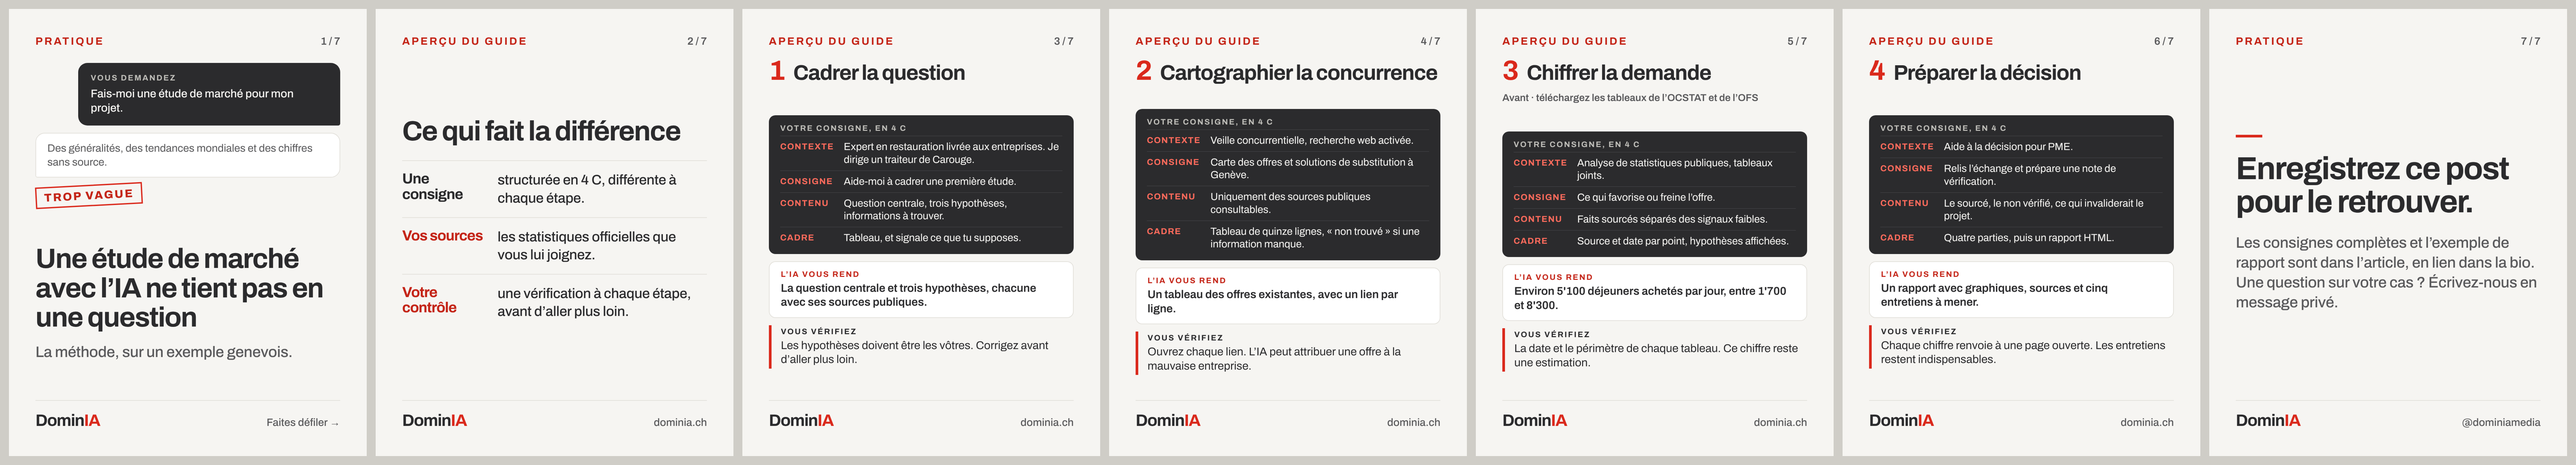
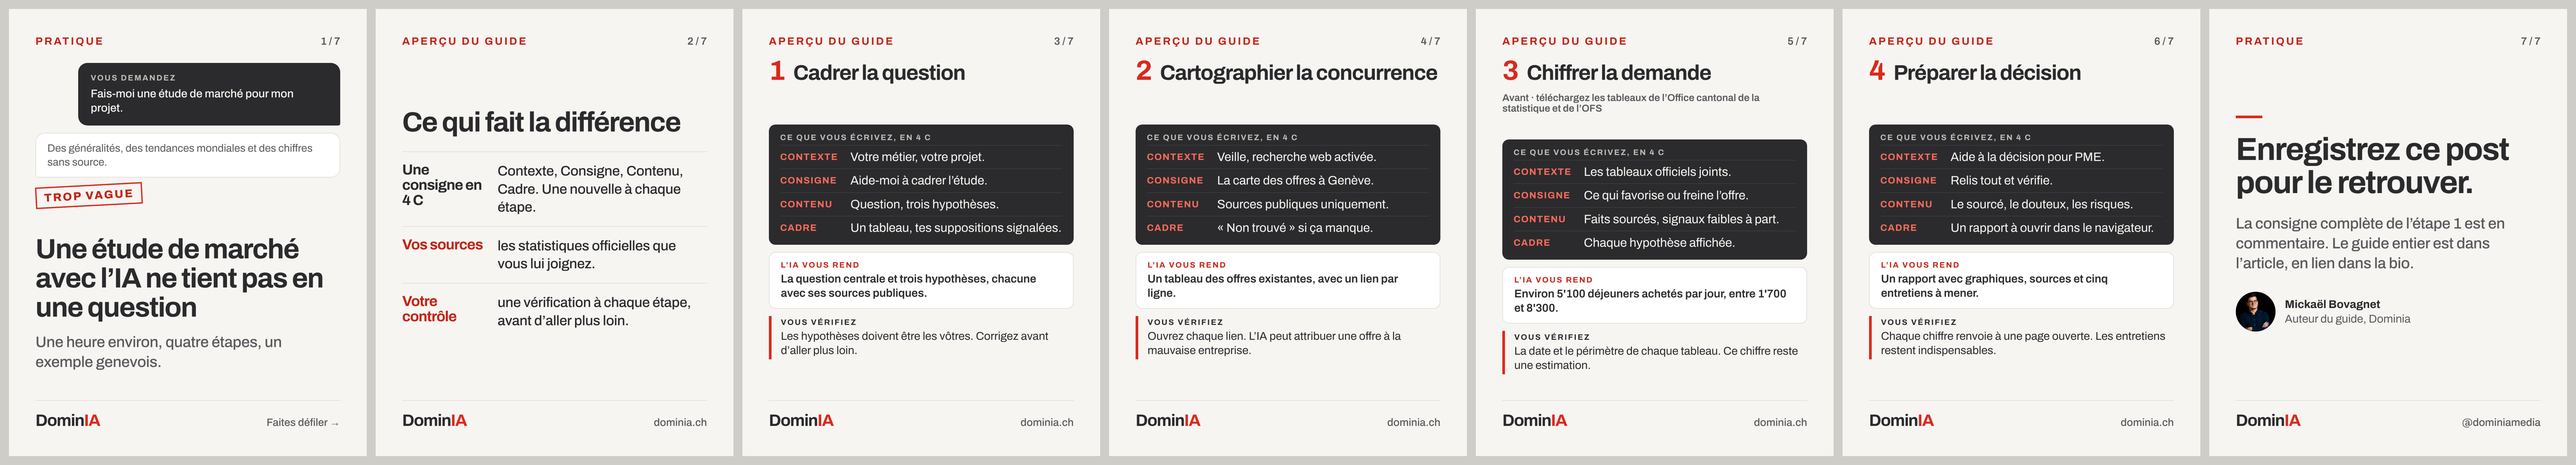
Carrousel étude de marché v6 : 4 C définis, cadre lisible, signature de l'auteur
Claude-Session: https://claude.ai/code/session_01QYrK9tD2HXR82baoKRbr2J

diff --git a/gabarits/generer.py b/gabarits/generer.py
@@ -113,6 +113,7 @@ def fin(v):
         <div class='accent' style='margin-bottom:44px'></div>
         <div class='titre' style='font-size:96px'>{e(v.get('titre','Enregistrez ce post pour le retrouver.'))}</div>
         <div class='texte' style='margin-top:44px'>{e(v.get('texte','Une question sur votre cas ? Écrivez-nous en message privé. L’article complet est en lien dans la bio.'))}</div>
+        {f"<div style='display:flex;align-items:center;gap:28px;margin-top:56px'><div style='width:120px;height:120px;border-radius:50%;background:url({img(v['photo'])}) center 20%/cover'></div><div style='font-size:34px;line-height:1.3'><div style='font-weight:700'>{e(v['auteur'])}</div><div style='color:{c['douce']}'>{e(v.get('fonction',''))}</div></div></div>" if v.get('auteur') else ""}
       </div>
       {pied(c, '@dominiamedia')}
     </div>"""
@@ -273,7 +274,7 @@ def etape_methode(v):
     Champs : rubrique, position, total, numero, titre, avant (facultatif), consigne [[label, texte]x4], rend, verifie"""
     c = CLAIR; w, h = 1080, 1350
     avant = f"<div style='font-size:30px;font-weight:600;margin-top:26px;color:{c['douce']}'>Avant · {e(v['avant'])}</div>" if v.get("avant") else ""
-    lignes = "".join(f"<div style='display:flex;gap:22px;padding:13px 0;border-top:1px solid #4A4A4E'><div style='width:170px;flex:none;font-size:26px;font-weight:700;letter-spacing:.08em;text-transform:uppercase;color:#FF6B5C;padding-top:4px'>{e(a)}</div><div style='font-size:31px;line-height:1.25'>{e(b)}</div></div>" for a, b in v["consigne"])
+    lignes = "".join(f"<div style='display:flex;gap:22px;padding:13px 0;border-top:1px solid #4A4A4E'><div style='width:190px;flex:none;font-size:28px;font-weight:700;letter-spacing:.08em;text-transform:uppercase;color:#FF6B5C;padding-top:6px'>{e(a)}</div><div style='font-size:37px;line-height:1.2'>{e(b)}</div></div>" for a, b in v["consigne"])
     corps = f"""<div class='cadre'>
       {tete(v, v['rubrique'], v.get('position'))}
       <div style='display:flex;align-items:baseline;gap:26px;margin-top:34px'>
@@ -283,7 +284,7 @@ def etape_methode(v):
       {avant}
       <div class='milieu' style='gap:22px'>
         <div style='background:#2B2B2D;color:#F6F5F2;border-radius:20px;padding:26px 34px 16px'>
-          <div style='font-size:24px;font-weight:700;letter-spacing:.14em;text-transform:uppercase;color:#BEBDB8;margin-bottom:10px'>Votre consigne, en 4 C</div>
+          <div style='font-size:24px;font-weight:700;letter-spacing:.14em;text-transform:uppercase;color:#BEBDB8;margin-bottom:10px'>Ce que vous écrivez, en 4 C</div>
           {lignes}
         </div>
         <div style='background:#FFFFFF;border:2px solid {c['filet']};border-radius:20px;padding:24px 34px'>
